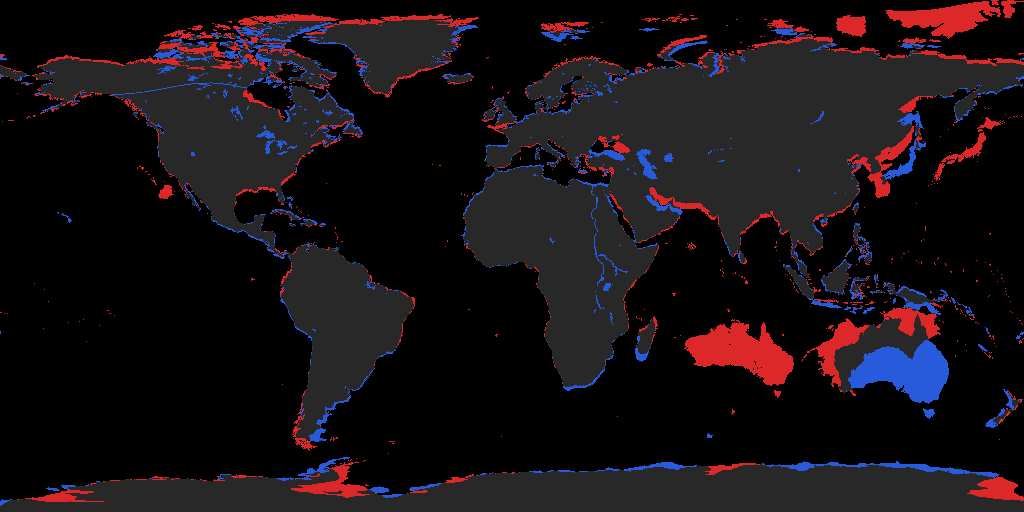
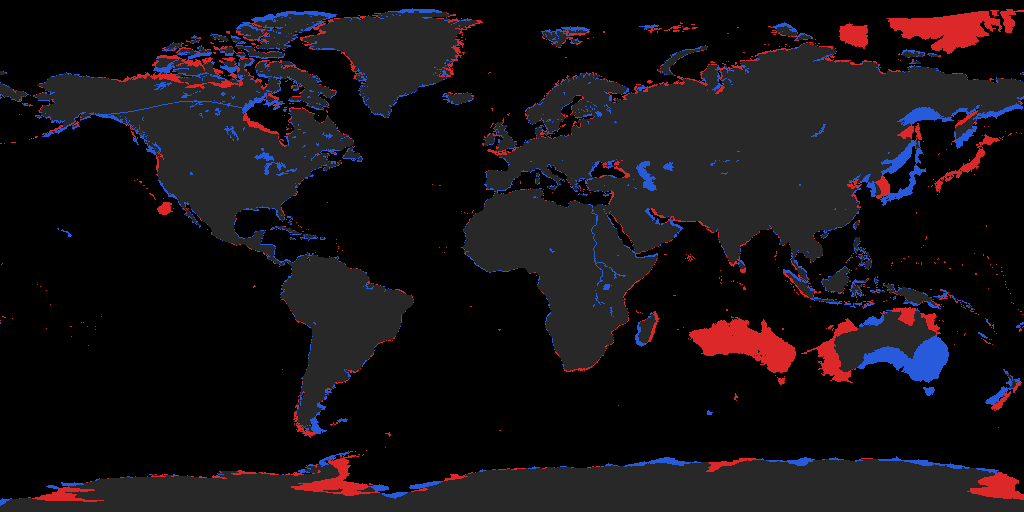
World band is Miller cylindrical (+85..-57), not Mercator
Author correction: the world map uses the Miller cylindrical projection
(top ~85, bottom ~-57), which (unlike Mercator) places the poles at a finite
distance. Added _miller to mapframe.py and a 'miller' option to the proj
column; default world band is now miller 85/-57.

Verified best of all models tried -- warp-after land/sea disagreement:
  miller 85/-57 : 6.26%   (metric-optimal miller 83/-59: 5.99%)
  equirect      : 7.27%
Antarctica stays equirectangular -57..-90; seam at 367.5px from bottom.

diff --git a/tools/mapfix/mapframe.py b/tools/mapfix/mapframe.py
@@ -52,6 +52,16 @@ def _merc(lat):
     return math.log(math.tan(math.pi / 4 + math.radians(lat) / 2))
 
 
+def _miller(lat):
+    """Miller cylindrical: like Mercator but the poles are at a finite y, so the
+    map can include +/-90 (or near it). y = 1.25 * ln(tan(pi/4 + 0.4*phi))."""
+    lat = max(min(lat, 89.99), -89.99)
+    return 1.25 * math.log(math.tan(math.pi / 4 + 0.4 * math.radians(lat)))
+
+
+_PROJ = {"equirect": None, "mercator": _merc, "miller": _miller}
+
+
 def gis_land_mask(shp_path, w, h, bands=None):
     """Rasterize Natural Earth land polygons into the piecewise-band frame.
 
@@ -77,12 +87,13 @@ def gis_land_mask(shp_path, w, h, bands=None):
         def X(lon):
             return (lon + 180.0) / 360.0 * w
 
-        if proj == "mercator":
-            m0, m1 = _merc(lat0), _merc(lat1)
+        fwd = _PROJ.get(proj)
+        if fwd is not None:                    # cylindrical (mercator/miller)
+            m0, m1 = fwd(lat0), fwd(lat1)
 
-            def Y(lat, ry0=ry0, ry1=ry1, m0=m0, m1=m1):
-                return ry0 + (m0 - _merc(lat)) / (m0 - m1) * (ry1 - ry0)
-        else:
+            def Y(lat, ry0=ry0, ry1=ry1, m0=m0, m1=m1, fwd=fwd):
+                return ry0 + (m0 - fwd(lat)) / (m0 - m1) * (ry1 - ry0)
+        else:                                  # equirectangular
             def Y(lat, ry0=ry0, ry1=ry1, lat0=lat0, lat1=lat1):
                 return ry0 + (lat0 - lat) / (lat0 - lat1) * (ry1 - ry0)
 

diff --git a/tools/mapfix/README.md b/tools/mapfix/README.md
@@ -4,10 +4,10 @@
 
 ## TL;DR
 
-- マップは **5120×2560**。ただし **単一の正距円筒ではない**。**世界map＋南極map を縦に合体し、指定ピクセル数に収めるため縦に押しつぶした**もので、**バンドごとに縦のスケール（縦横比）が異なる**（＝「2種類の縦横比」）。継ぎ目は**下から367.5px（正規化0.8562）**。
-  - 世界バンド：行 0–2192（正規化 0–0.8562）↔ 緯度 **+90°〜−50°**（出自メルカトル／実用上は正距円筒が最良）
-  - 南極バンド：行 2192–2560（0.8562–1.0）↔ 緯度 **−54°〜−90°**（正距円筒）
-- このピースワイズ投影（`bands.csv`）を前提に実地理(GIS)と比較すると、陸海の食い違いは **約12.0%**（単一正距円筒という誤前提だと16.8%に見えていた）。
+- マップは **5120×2560**。ただし **単一の正距円筒ではない**。**世界map＋南極map を縦に合体し、指定ピクセル数に収めるため縦に押しつぶした**もので、**バンドごとに投影・縦横比が異なる**（＝「2種類の縦横比」）。継ぎ目は**下から367.5px（正規化0.8562）**。
+  - 世界バンド：行 0–2192（正規化 0–0.8562）↔ **ミラー図法**、緯度 **+85°〜−57°**（作者）
+  - 南極バンド：行 2192–2560（0.8562–1.0）↔ **正距円筒**、緯度 **−57°〜−90°**
+- このピースワイズ投影（`bands.csv`）を前提に warp すると、陸海の食い違いは **warp後 約6.3%**（旧 equirect 前提の 7.3% より改善）。
 - 全レイヤーを **同一の変位場でワープ**（プロヴィンスは最近傍補間で色＝ID保持）すると、食い違いを **約6.5% まで低減**。変位量も 17→11px に減り、補正が「真の歪み」だけに集中。
 - この方式なら **province ID が変わらない**ので、`definition.csv` / states / history / supply などの既存データは壊れない。
 
@@ -16,11 +16,11 @@
 このマップは1枚の正距円筒ではなく、**複数のバンドを縦に積んだ**もの：
 
 ```
- row 0      ┌─────────────────────────────┐  +90° (北極)
-            │     世界バンド (Mercator出自)│
-            │        lat +90 .. -50        │
+ row 0      ┌─────────────────────────────┐  +85° (世界map上端)
+            │   世界バンド (ミラー図法)     │
+            │       lat +85 .. -57         │
  row 2192   ├─────────────────────────────┤  継ぎ目（下から367.5px）
-            │   南極バンド (正距円筒/圧縮) │  lat -54 .. -90
+            │   南極バンド (正距円筒)       │  lat -57 .. -90
  row 2560   └─────────────────────────────┘  -90° (南極)
 ```
 
@@ -28,19 +28,22 @@
 
 ### 投影（proj 列）
 
-各バンドは `equirect` / `mercator` を選べる（`bands.csv` の6列目）。
+各バンドは `equirect` / `mercator` / `miller` を選べる（`bands.csv` の6列目）。
 
 - **南極**：正距円筒（作者確認）。
-- **世界**：出自は**メルカトル**（作者）。ただし**最上行を北極(+90°)に合わせて押しつぶした**ため、純メルカトルでは有限の端に極を置けず、実用上は正距円筒が最良。継ぎ目を正確値（下から367.5px）にした上での実測：
+- **世界**：**ミラー図法（Miller cylindrical）**、上端**約85°**・下端**約−57°**（作者）。ミラーはメルカトルの変形で、緯度を0.8倍してからメルカトル変換し結果を1.25倍する（`y = 1.25·ln(tan(π/4 + 0.4·φ))`）。これにより**極を有限距離に表示でき**、メルカトルの「極が無限」問題を回避する。
 
-  | 世界バンドの投影 | 陸海不一致(before) |
-  |---|---|
-  | equirect（既定）| **12.03%** |
-  | mercator(latN≈78) | 12.45% |
+  warp後の陸海不一致（継ぎ目=下から367.5pxで実測）：
 
-  縦方向だけの相関ではメルカトルが上回るが、北極を端に固定する制約のため全体一致は equirect が良い。出自どおりメルカトルにしたい場合は `bands.csv` の world 行を `mercator`（latN≈78, seam≈−62）に。
+  | 世界バンドの投影 | before | warp後 |
+  |---|---|---|
+  | **miller（既定, 85/−57）** | 12.95% | **6.26%** |
+  | miller（最適 83/−59）| 8.73% | 5.99% |
+  | equirect | 11.99% | 7.27% |
 
-> **継ぎ目の確定値**：世界map（メルカトル）と南極map（正距円筒）の境界は**下から367–368px**（作者）＝上から行2192.5＝正規化 **0.8562**。
+  ミラーが warp 後で最良。既定は作者明示の 85/−57。集計指標だけなら latN≈83, latS≈−59 がさらに合うが、これは意図的歪み（豪州・日本）等で汚染された値なので、設計値 85/−57 を既定とする。
+
+> **継ぎ目の確定値**：世界map（ミラー図法）と南極map（正距円筒）の境界は**下から367–368px**（作者）＝上から行2192.5＝正規化 **0.8562**。
 
 ## なぜ「ワープ」なのか
 
